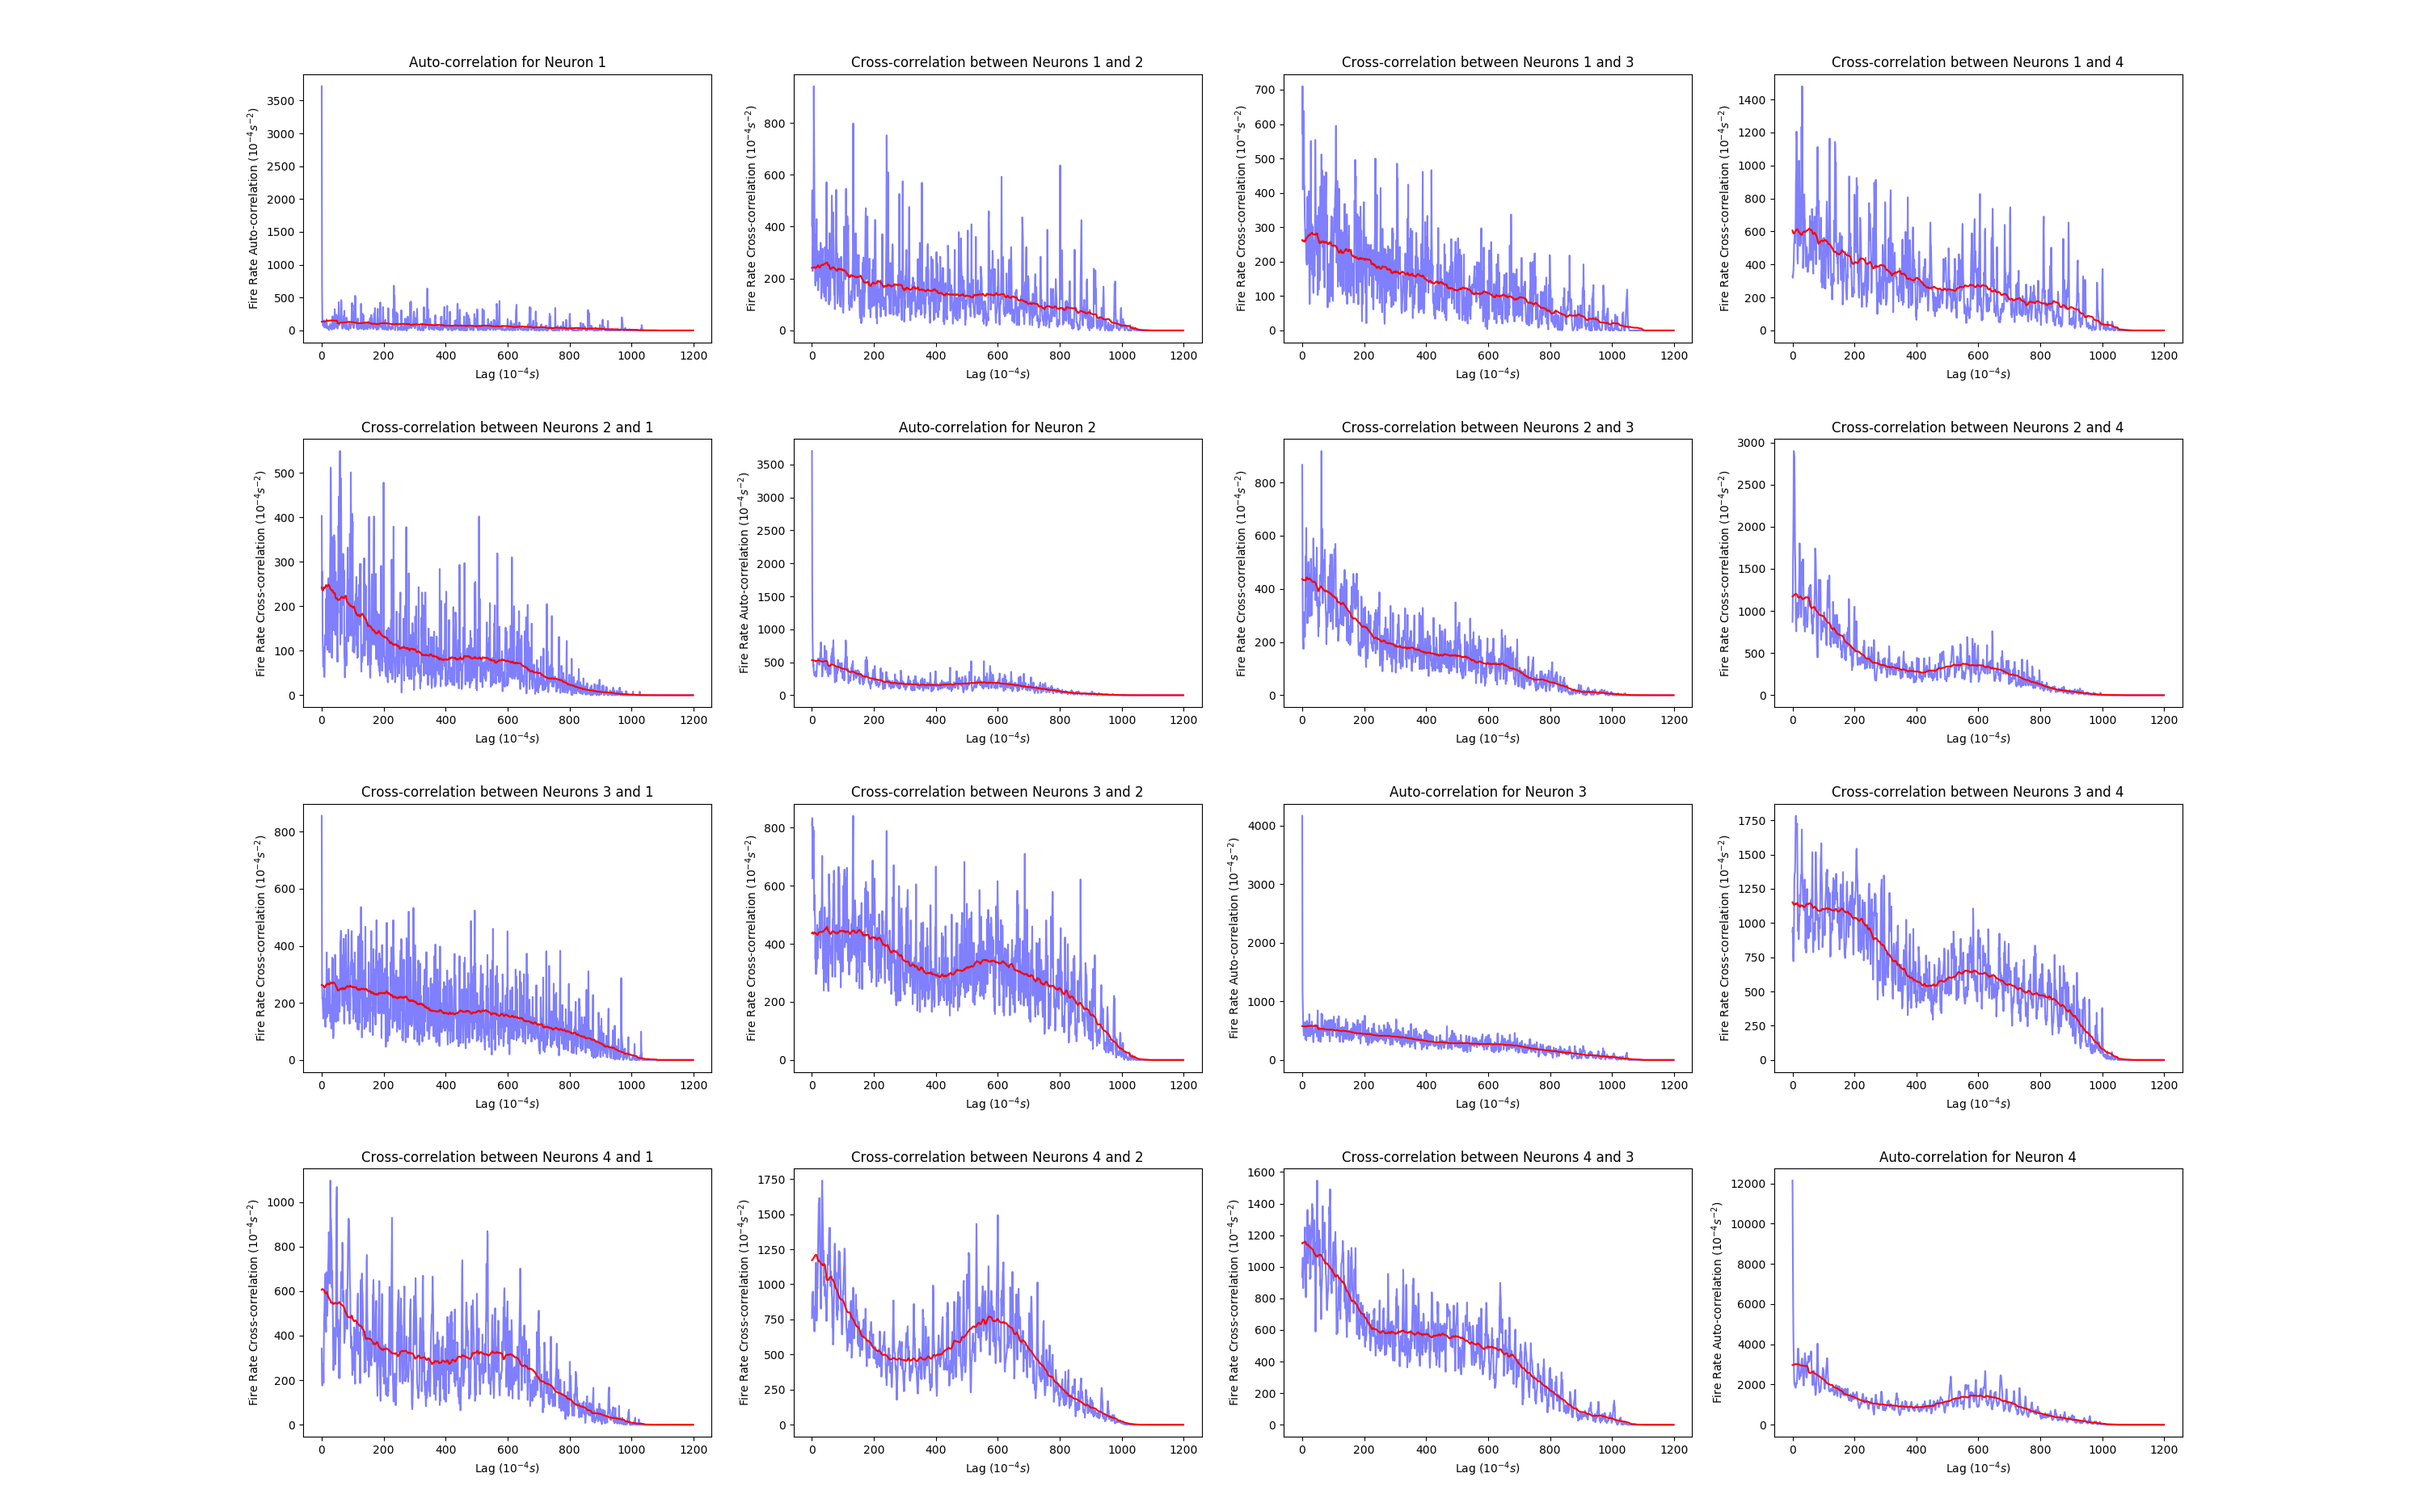
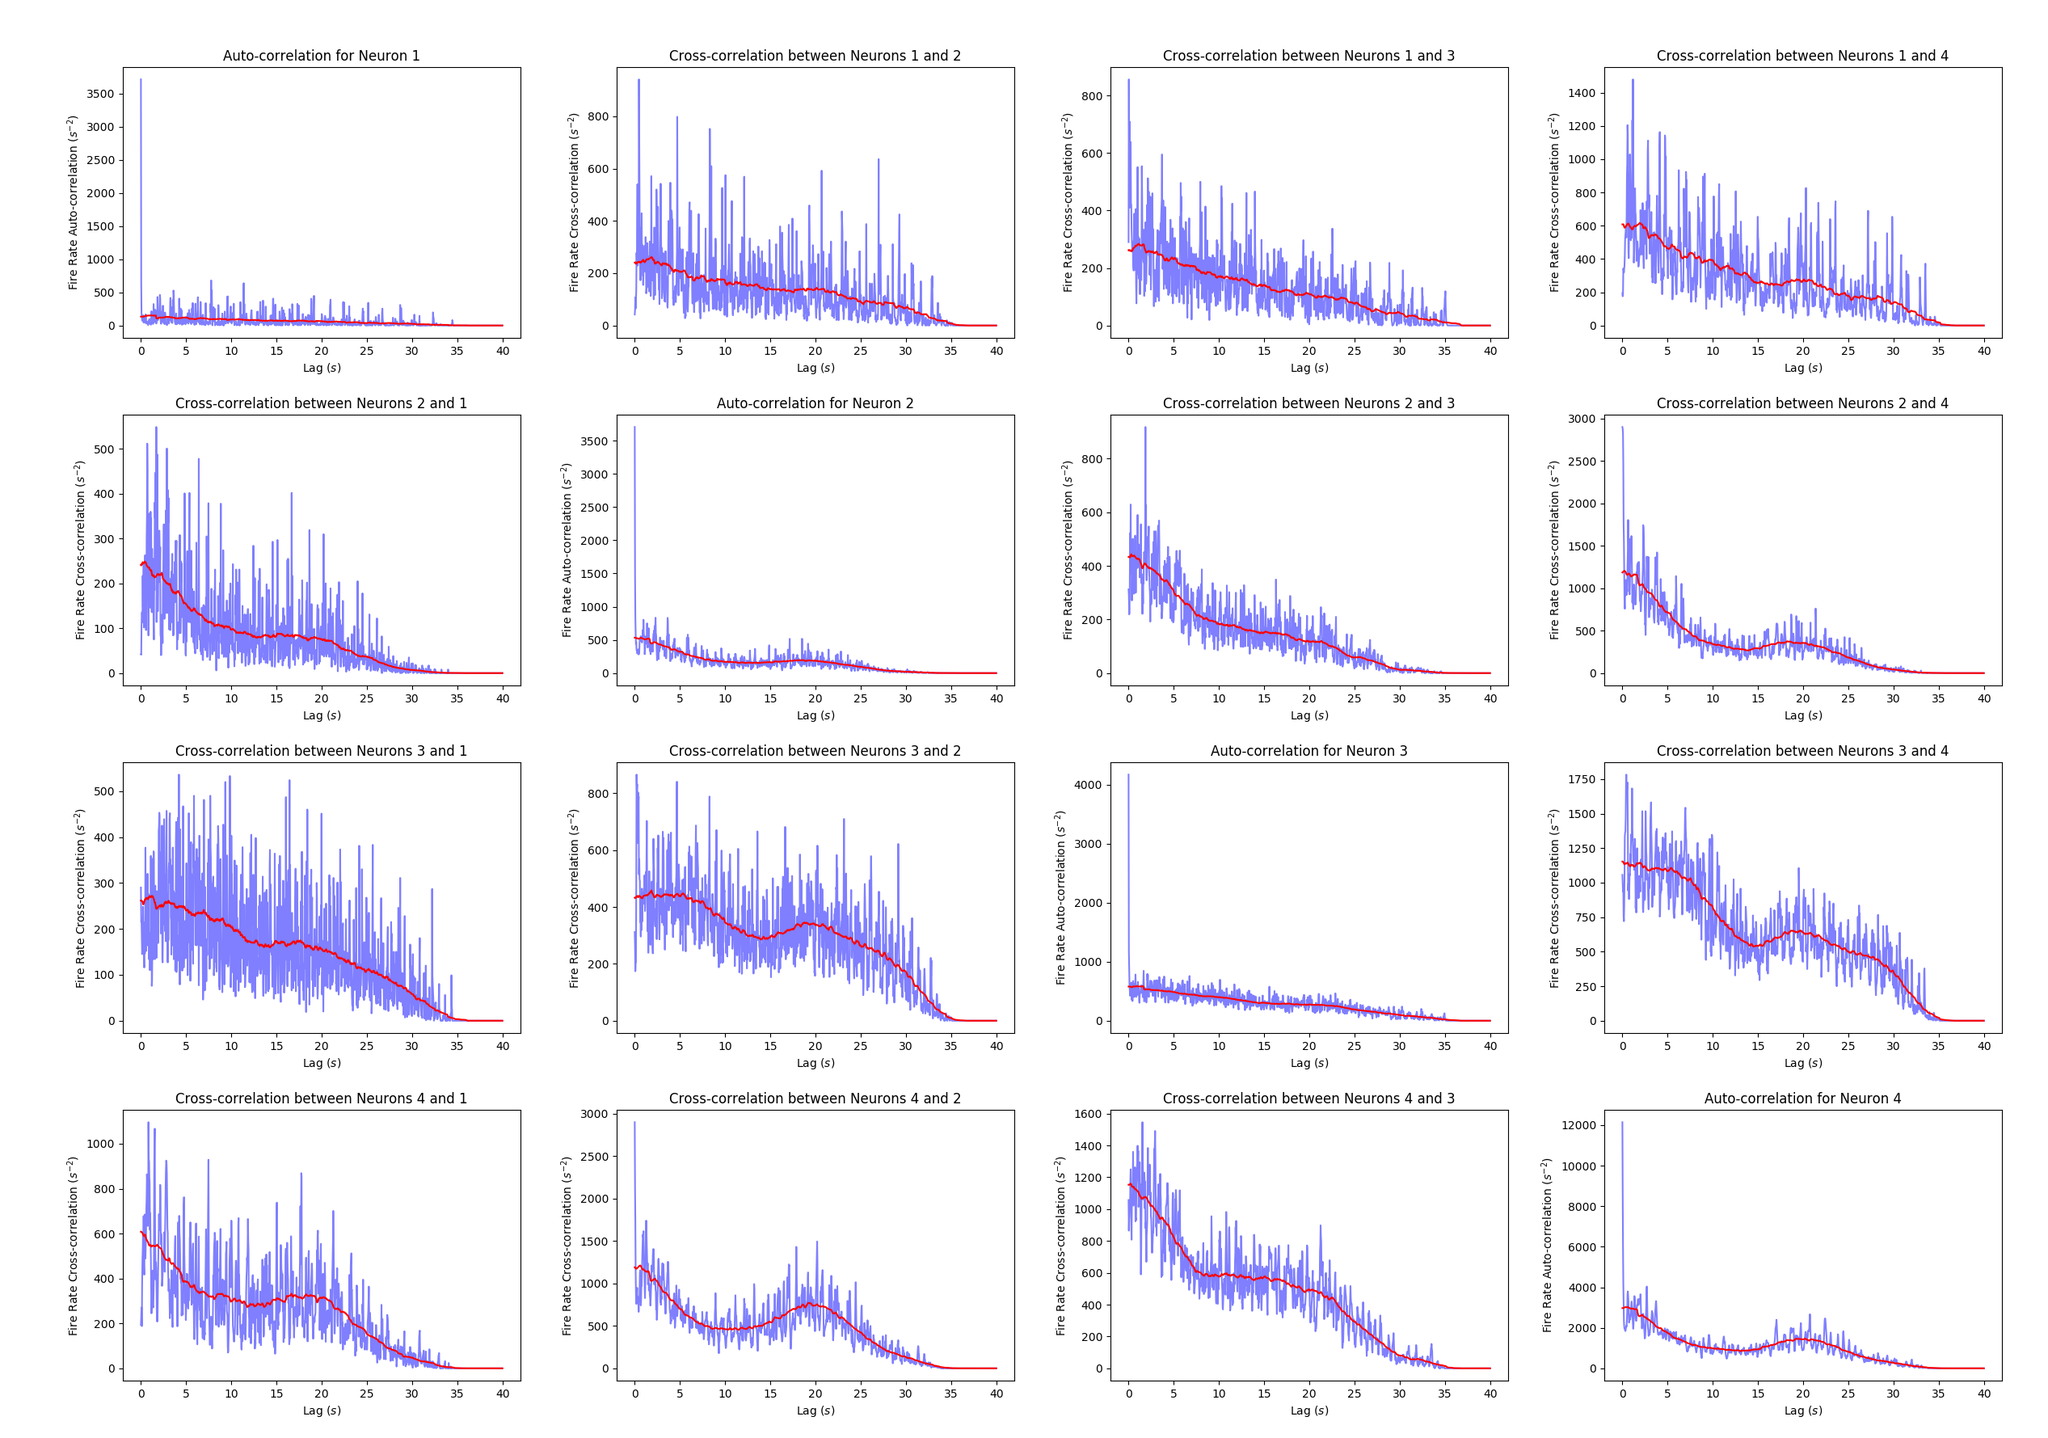
fixed correlation x axis values

diff --git a/cw2/code/analysis.py b/cw2/code/analysis.py
@@ -22,27 +22,31 @@ def plot_correlations():
     fig, axs = plt.subplots( 4, 4 )
     frs = [ fire_rate(load( 'neuron%d' % i ))
             for i in range( 1, 5 ) ]
+    ts = load( 'time' )
+    ts = ( ts - ts[ 0 ] ) / 1e4
     max_steps = max( fr.size for fr in frs )
     frs = [ np.concatenate(( fr, np.zeros((max_steps - fr.size)) ))
             for fr in frs ]
-    kernel = np.ones(100) / 100
+    kernel = np.ones( 100 ) / 100
+    n = 1200
     for i, j in product( range(1, 5), range(1, 5) ):
         x = frs[ i - 1 ]
         y = frs[ j - 1 ]
         cor = np.correlate( x, y, mode = 'full' )
         cor_smooth = np.convolve( cor, kernel, mode = 'same' )
-        cor = cor[ cor.size // 2 : ][ : 1200 ]
-        cor_smooth  = cor_smooth[ cor_smooth.size // 2 : ][ : 1200 ]
+        cor = cor[ cor.size // 2 : ][ : n ]
+        cor_smooth  = cor_smooth[ cor_smooth.size // 2 : ][ : n ]
         ax = axs[ i - 1, j - 1 ]
-        ax.plot( cor, c='b', alpha=0.5 )
-        ax.plot( cor_smooth, c='r' )
-        ax.set_xlabel( 'Lag ($10^{-4} s$)' );
+        ax.plot( ts[ : n ], cor, c='b', alpha=0.5 )
+        ax.plot( ts[ : n ], cor_smooth, c='r' )
+        ax.set_xlabel( 'Lag ($s$)' )
         if i == j:
             ax.set_title( 'Auto-correlation for Neuron %d' % i )
-            ax.set_ylabel( 'Fire Rate Auto-correlation ($10^{-4} s^{-2}$)' )
+            ax.set_ylabel( 'Fire Rate Auto-correlation ($s^{-2}$)' )
         else:
-            ax.set_title( 'Cross-correlation between Neurons %d and %d' % (i, j) )
-            ax.set_ylabel( 'Fire Rate Cross-correlation ($10^{-4} s^{-2}$)' )
+            ax.set_title( 'Cross-correlation between Neurons %d and %d'
+                          % (i, j) )
+            ax.set_ylabel( 'Fire Rate Cross-correlation ($s^{-2}$)' )
     plt.show()
 
 def fired_indices( time_stamps, fire_times ):
